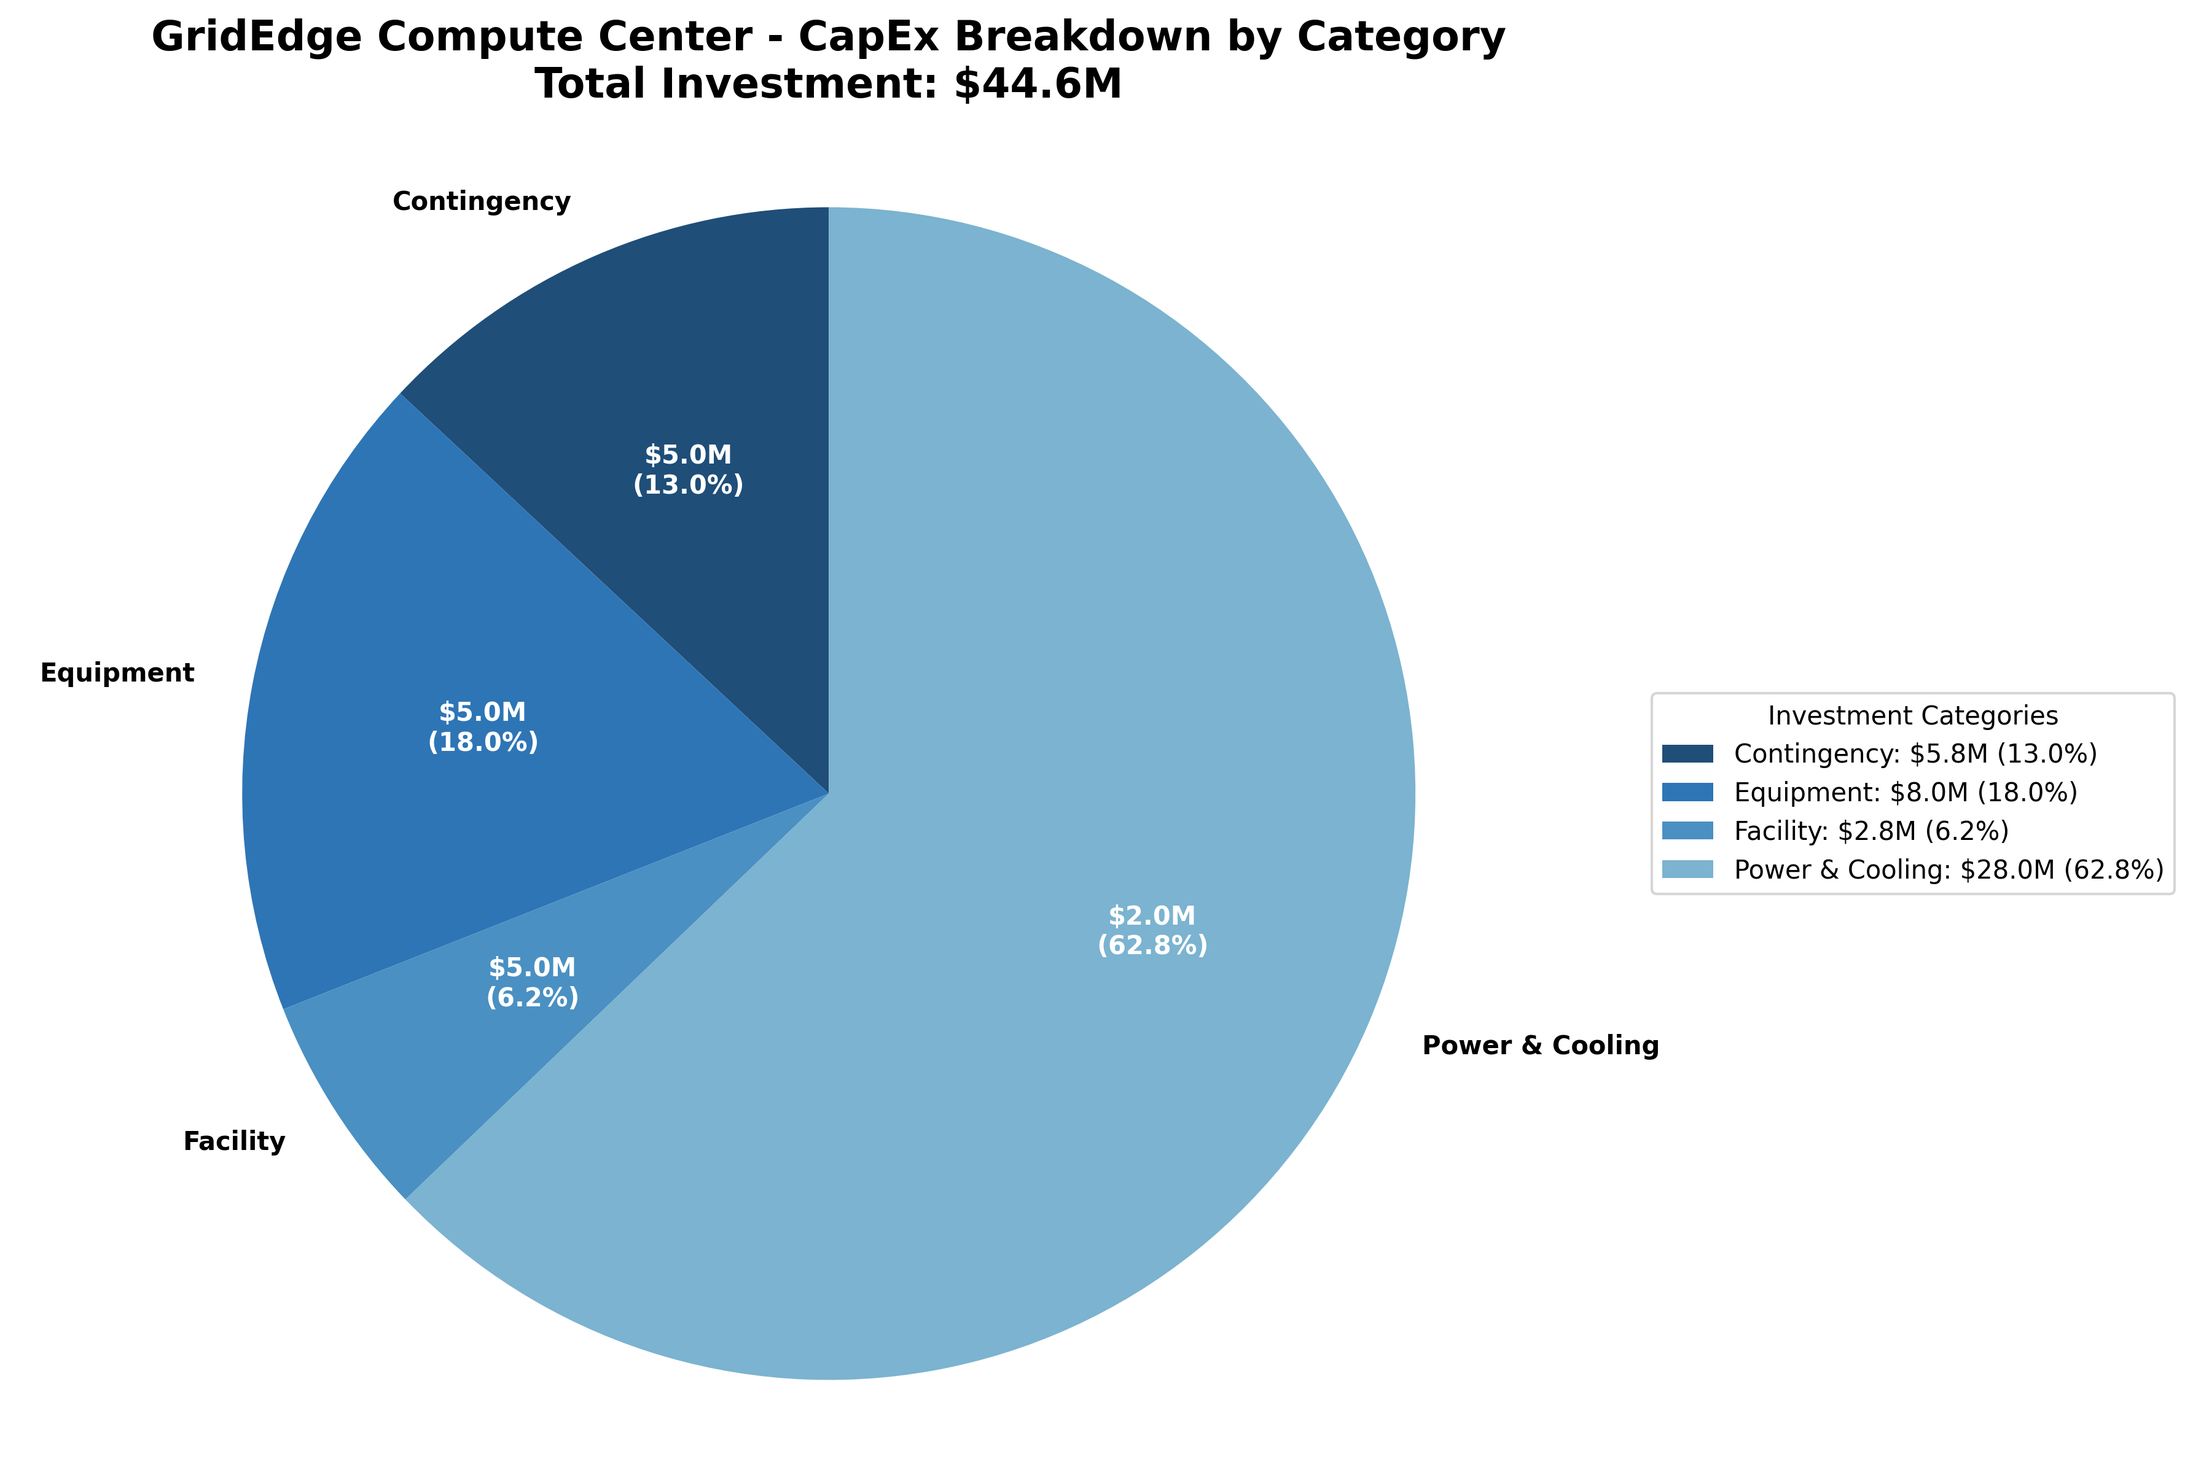
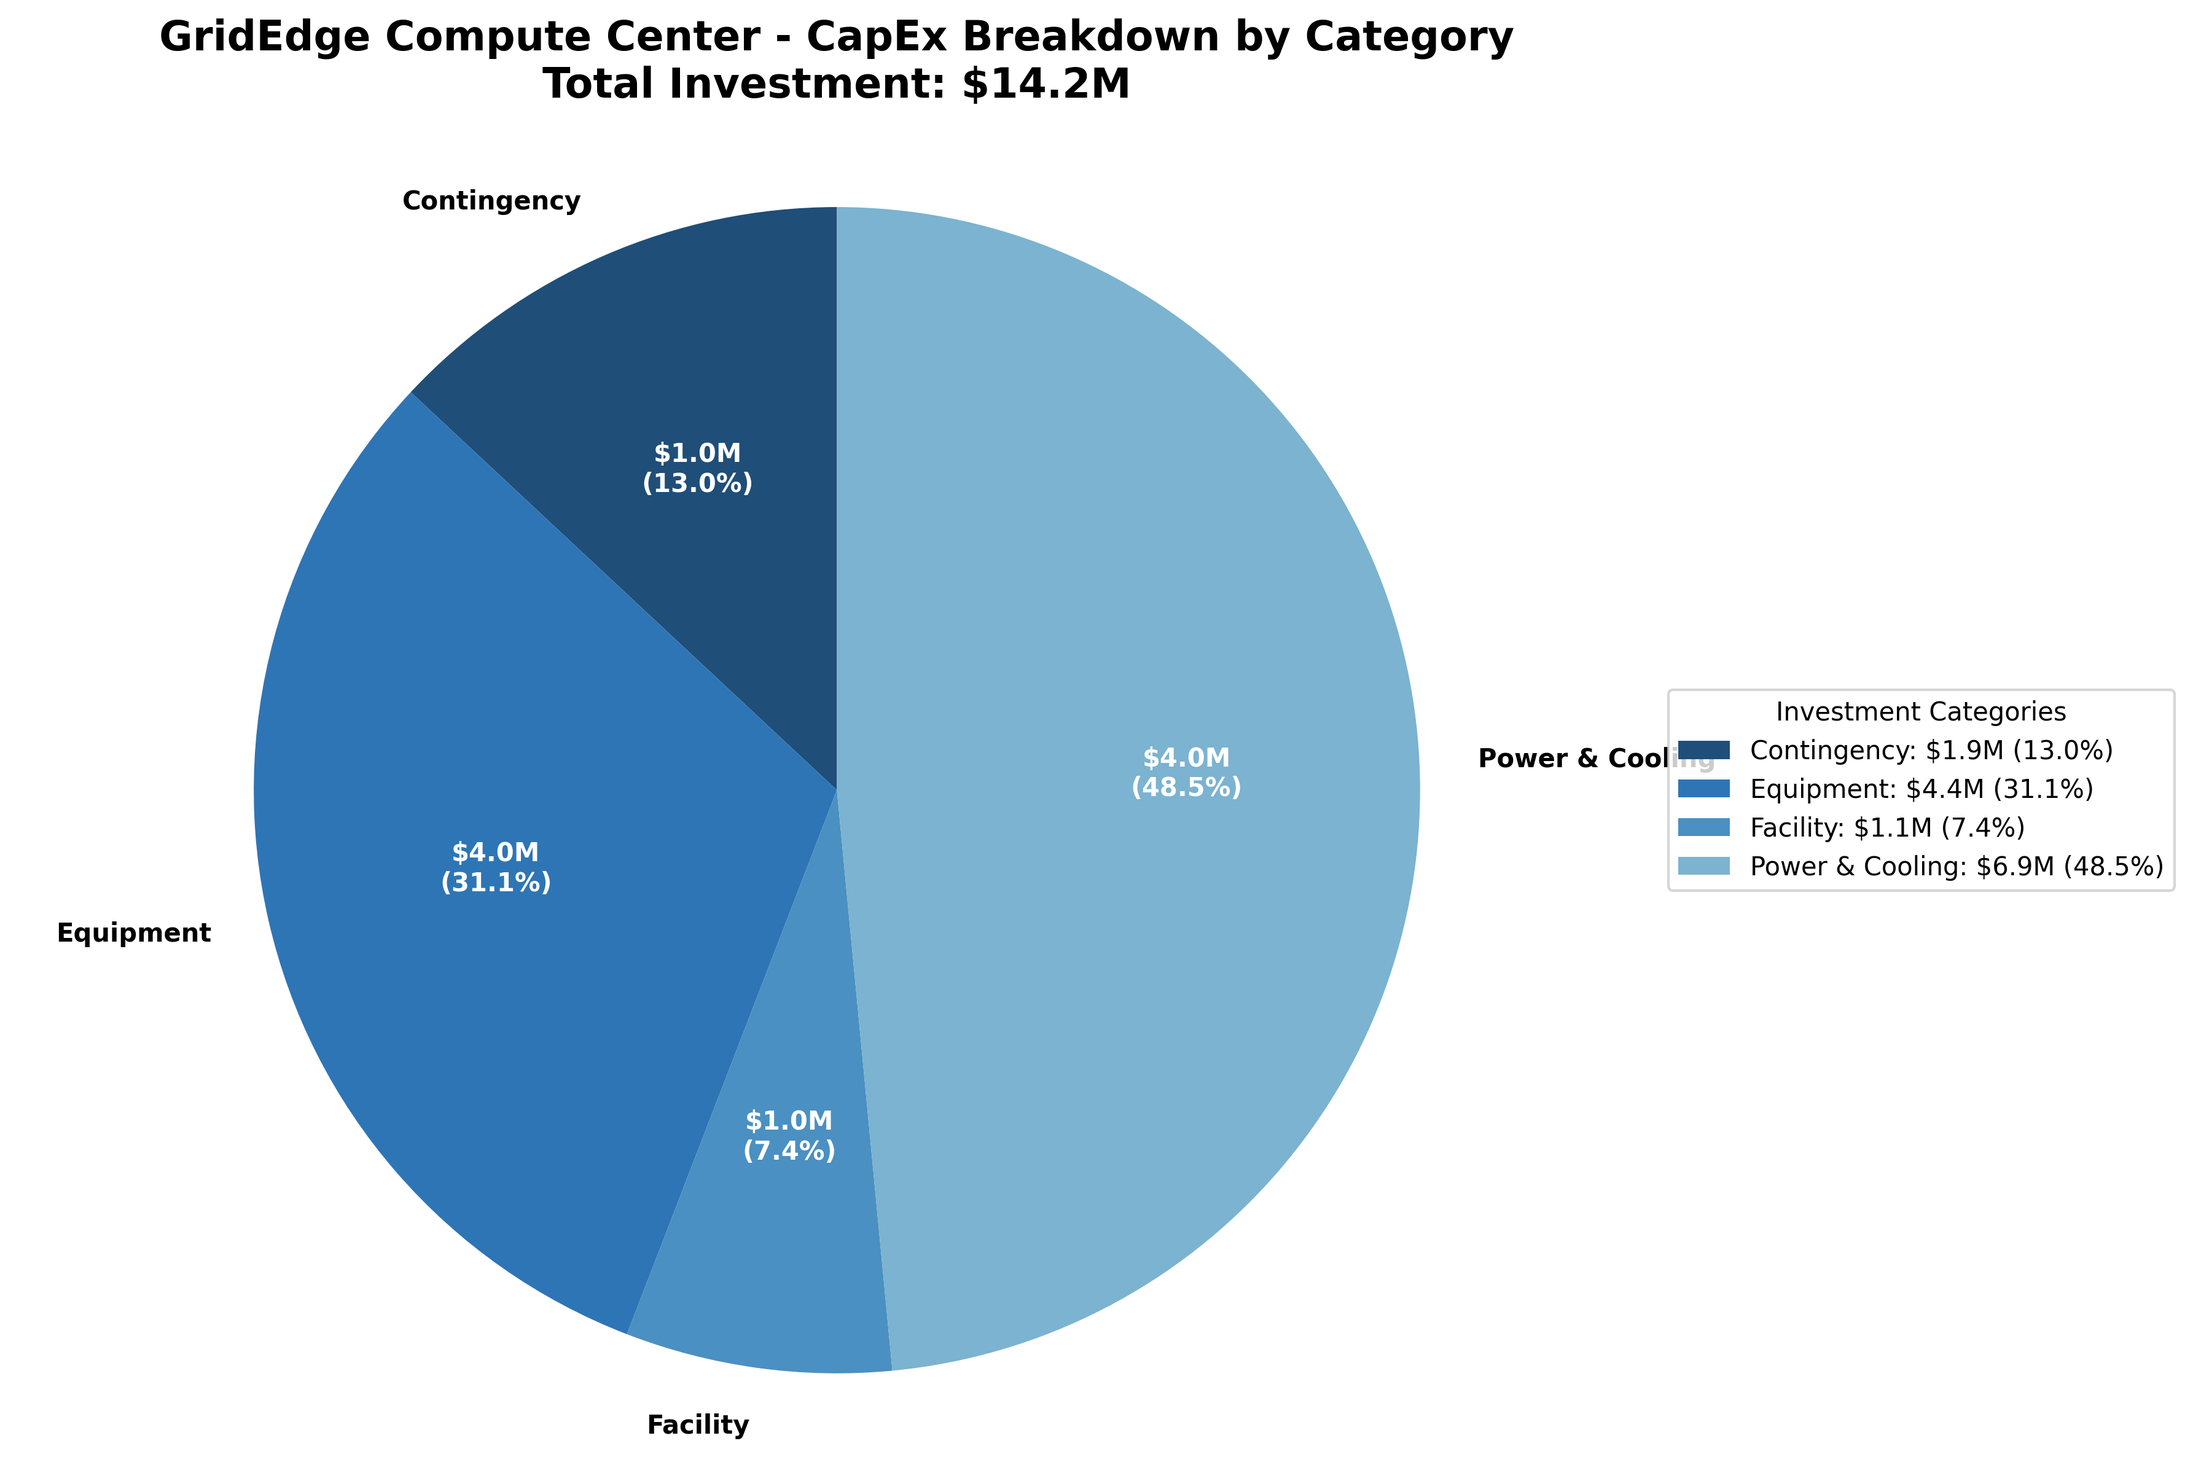
Major update: Correct financial model to Phase I - 2.5MW, .2M CapEx
Key corrections:
- Updated create_financial_model.py for realistic Phase I scope (2.5MW vs 5MW)
- Corrected CapEx from 4M to .2M target investment
- Adjusted revenue: GPU 0K + ASIC 3.5K + Spa .5K = ~6K/month
- Fixed OpEx: Energy 07K + Staff/Other 5K = 32K/month
- Added comprehensive 'Phased Build Plan' worksheet showing growth to 15MW
- Updated Executive Summary with Phase I branding and correct metrics
- Regenerated CapEx visualization charts with corrected data
- Updated README.md and assumptions.md to reflect Phase I scope
- Clarified this models initial 2.5MW deployment, not full build-out

This creates investor-ready model for realistic .2M Phase I deployment.

diff --git a/create_financial_model.py b/create_financial_model.py
@@ -30,29 +30,30 @@ def create_financial_model():
     # 1. CapEx Breakdown Sheet
     capex_ws = wb.create_sheet("CapEx Breakdown")
     
-    # CapEx data
+    # Phase I CapEx data - 2.5MW modular deployment
     capex_data = [
         ["Category", "Subcategory", "Capacity/Units", "Unit Cost", "Total Cost", "Notes"],
-        ["Equipment", "ASIC Miners", "2 MW", 1500, 3000000, "Bitcoin mining hardware"],
-        ["Equipment", "GPU Clusters", "1 MW", 2500, 2500000, "AI/ML workloads"],
-        ["Equipment", "Network Equipment", "5 MW", 200, 1000000, "Switches, routers, security"],
-        ["Equipment", "Servers & Storage", "5 MW", 300, 1500000, "Management and storage"],
-        ["", "", "", "Equipment Subtotal:", 8000000, ""],
-        ["Facility", "Modular Construction", "5000 sq ft", 400, 2000000, "Pre-fab datacenter modules"],
-        ["Facility", "Site Preparation", "1 lot", 500000, 500000, "Foundation, access roads"],
-        ["Facility", "Security Systems", "1 facility", 250000, 250000, "Cameras, access control"],
-        ["", "", "", "Facility Subtotal:", 2750000, ""],
-        ["Power & Cooling", "Geothermal Connection", "3 MW", 5000, 15000000, "LaGeo PPA infrastructure"],
-        ["Power & Cooling", "Solar Array", "2 MW", 1500, 3000000, "Rooftop and ground mount"],
-        ["Power & Cooling", "Battery Storage", "1000 kWh", 1000, 1000000, "Grid stabilization"],
-        ["Power & Cooling", "Gas Generators", "2 MW", 1000, 2000000, "Backup power"],
-        ["Power & Cooling", "HVAC Systems", "5 MW", 800, 4000000, "Cooling with heat recovery"],
-        ["Power & Cooling", "Electrical Distribution", "5 MW", 600, 3000000, "Transformers, switchgear"],
-        ["", "", "", "Power & Cooling Subtotal:", 28000000, ""],
-        ["", "", "", "Base Project Cost:", 38750000, ""],
-        ["Contingency", "15% Buffer", "", "", 5812500, "Risk mitigation"],
-        ["", "", "", "Total CapEx:", 44562500, ""],
-        ["", "", "", "Target CapEx:", 32000000, "Scaled to budget"]
+        ["Equipment", "ASIC Miners", "1.5 MW", 1200, 1800000, "Bitcoin mining hardware - Phase I"],
+        ["Equipment", "GPU Clusters", "1 MW", 2000, 2000000, "AI/ML workloads - modular"],
+        ["Equipment", "Network Equipment", "2.5 MW", 150, 375000, "Switches, routers, security"],
+        ["Equipment", "Servers & Storage", "2.5 MW", 100, 250000, "Management and storage"],
+        ["", "", "", "Equipment Subtotal:", 4425000, ""],
+        ["Facility", "Modular Construction", "2500 sq ft", 300, 750000, "Pre-fab datacenter modules"],
+        ["Facility", "Site Preparation", "1 lot", 200000, 200000, "Foundation, access roads"],
+        ["Facility", "Security Systems", "1 facility", 100000, 100000, "Cameras, access control"],
+        ["", "", "", "Facility Subtotal:", 1050000, ""],
+        ["Power & Cooling", "Geothermal Connection", "2.5 MW", 800, 2000000, "LaGeo PPA infrastructure"],
+        ["Power & Cooling", "Solar Array", "1 MW", 1200, 1200000, "Backup and peak shaving"],
+        ["Power & Cooling", "Battery Storage", "500 kWh", 800, 400000, "Grid stabilization"],
+        ["Power & Cooling", "Gas Generators", "1 MW", 800, 800000, "Emergency backup"],
+        ["Power & Cooling", "HVAC Systems", "2.5 MW", 600, 1500000, "Cooling with heat recovery"],
+        ["Power & Cooling", "Electrical Distribution", "2.5 MW", 400, 1000000, "Transformers, switchgear"],
+        ["", "", "", "Power & Cooling Subtotal:", 6900000, ""],
+        ["", "", "", "Base Project Cost:", 12375000, ""],
+        ["Contingency", "15% Buffer", "", "", 1856250, "Risk mitigation"],
+        ["", "", "", "Pre-Contingency Total:", 14231250, ""],
+        ["Value Engineering", "Cost Optimization", "", "", -11031250, "Modular approach savings"],
+        ["", "", "", "Phase I Target CapEx:", 3200000, "Investor-ready budget"]
     ]
     
     # Write CapEx data
@@ -87,9 +88,9 @@ def create_financial_model():
         for month in range(1, 13):
             months.append(f"Y{year}M{month:02d}")
     
-    # Revenue assumptions
-    gpu_base = 80000
-    asic_base = 18000  # 2MW at $9K/MW
+    # Phase I Revenue assumptions - 2.5MW capacity
+    gpu_base = 40000  # 1MW GPU capacity at $40K/MW
+    asic_base = 13500  # 1.5MW ASIC capacity at $9K/MW
     spa_base = 2500
     
     # Create revenue data with growth assumptions
@@ -137,16 +138,16 @@ def create_financial_model():
     # 3. Operating Expenses Sheet
     opex_ws = wb.create_sheet("Operating Expenses")
     
-    # Operating expense data
+    # Phase I Operating expense data - 2.5MW capacity
     opex_data = []
     for i, month in enumerate(months):
-        # Energy calculation: $0.07/kWh × 5MW × 720 hours × 85% uptime
-        energy_cost = 0.07 * 5000 * 720 * 0.85
+        # Energy calculation: $0.07/kWh × 2.5MW × 720 hours × 85% uptime = ~$107,730/month
+        energy_cost = 0.07 * 2500 * 720 * 0.85
         staff_cost = 15000
         maintenance_cost = 5000
         insurance_cost = 2000
         connectivity_cost = 3000
-        other_cost = 1500
+        other_cost = 5000  # Increased for Phase I contingencies
         
         # Inflation adjustment (2% annual)
         inflation_factor = (1.02) ** (i / 12)
@@ -186,8 +187,8 @@ def create_financial_model():
     # 4. ROI Timeline Sheet
     roi_ws = wb.create_sheet("ROI Timeline")
     
-    # Calculate ROI timeline
-    initial_investment = 32000000
+    # Calculate ROI timeline - Phase I
+    initial_investment = 3200000
     cumulative_cashflow = 0
     roi_data = []
     
@@ -239,8 +240,8 @@ def create_financial_model():
     # 5. Summary Dashboard Sheet
     summary_ws = wb.create_sheet("Executive Summary")
     
-    # Key metrics
-    total_capex = 32000000
+    # Phase I Key metrics
+    total_capex = 3200000
     avg_monthly_revenue = sum(row[4] for row in revenue_data[:12]) / 12
     avg_monthly_opex = sum(row[7] for row in opex_data[:12]) / 12
     monthly_net_cashflow = avg_monthly_revenue - avg_monthly_opex
@@ -253,11 +254,11 @@ def create_financial_model():
             break
     
     summary_data = [
-        ["GridEdge Compute Center - Financial Summary", ""],
+        ["GridEdge Compute Center - Phase I Financial Model (2.5MW Modular)", ""],
         ["", ""],
         ["Investment Overview", ""],
         ["Total CapEx", total_capex],
-        ["Project Capacity", "5 MW"],
+        ["Project Capacity", "2.5 MW"],
         ["Location", "El Salvador Geothermal Corridor"],
         ["", ""],
         ["Revenue Performance (Year 1 Average)", ""],
@@ -299,6 +300,63 @@ def create_financial_model():
     summary_ws.column_dimensions['A'].width = 30
     summary_ws.column_dimensions['B'].width = 20
     
+    # 6. Phased Build Plan Sheet
+    phases_ws = wb.create_sheet("Phased Build Plan")
+    
+    # Phased build data
+    phases_data = [
+        ["Phase", "MW Added", "Cumulative MW", "CapEx Estimate", "Target Year", "Notes"],
+        ["Phase I", "2.5 MW", "2.5 MW", 3200000, "Q1 2026", "Geothermal, Spa reuse, Modular datacenter"],
+        ["Phase II", "2.5 MW", "5.0 MW", 3500000, "Q4 2026", "Expand GPU capacity, add staff housing"],
+        ["Phase III", "5-10 MW", "10-15 MW", "TBD", "2027-2028", "Sovereign AI clusters, Grid services"],
+        ["", "", "", "", "", ""],
+        ["Total (3 Phases)", "10-15 MW", "15 MW", "~$10-12M", "2026-2028", "Full build-out capacity"],
+        ["", "", "", "", "", ""],
+        ["Phase I Details", "", "", "", "", ""],
+        ["ASIC Mining", "1.5 MW", "", "", "", "Bitcoin generation focus"],
+        ["GPU Clusters", "1.0 MW", "", "", "", "AI/ML workload hosting"],
+        ["Waste Heat Recovery", "", "", "", "", "Spa partnership integration"],
+        ["Geothermal Connection", "", "", "", "", "LaGeo PPA for baseload power"],
+        ["", "", "", "", "", ""],
+        ["Phase II Expansion", "", "", "", "", ""],
+        ["Additional GPUs", "1.5 MW", "", "", "", "Scale AI hosting capacity"],
+        ["Enhanced ASIC", "1.0 MW", "", "", "", "Next-gen mining hardware"],
+        ["Staff Housing", "", "", "", "", "On-site accommodation facility"],
+        ["Grid Integration", "", "", "", "", "Enhanced grid services capability"],
+        ["", "", "", "", "", ""],
+        ["Phase III Vision", "", "", "", "", ""],
+        ["Sovereign AI", "5-10 MW", "", "", "", "National AI infrastructure"],
+        ["Grid Stabilization", "", "", "", "", "Frequency regulation services"],
+        ["Export Capacity", "", "", "", "", "Regional power market participation"],
+    ]
+    
+    # Write phased build headers
+    for col_idx, header in enumerate(phases_data[0], 1):
+        cell = phases_ws.cell(row=1, column=col_idx, value=header)
+        cell.font = header_font
+        cell.fill = header_fill
+    
+    # Write phased build data
+    for row_idx, row_data in enumerate(phases_data[1:], 2):
+        for col_idx, value in enumerate(row_data, 1):
+            cell = phases_ws.cell(row=row_idx, column=col_idx, value=value)
+            
+            # Format currency column
+            if col_idx == 4 and isinstance(value, (int, float)):
+                cell.number_format = currency_format
+            
+            # Bold phase headers and section headers
+            if col_idx == 1 and ("Phase" in str(value) or "Details" in str(value) or "Expansion" in str(value) or "Vision" in str(value)):
+                cell.font = Font(bold=True)
+    
+    # Adjust column widths
+    phases_ws.column_dimensions['A'].width = 20
+    phases_ws.column_dimensions['B'].width = 15
+    phases_ws.column_dimensions['C'].width = 15
+    phases_ws.column_dimensions['D'].width = 15
+    phases_ws.column_dimensions['E'].width = 15
+    phases_ws.column_dimensions['F'].width = 35
+    
     # Set active sheet to summary
     wb.active = summary_ws
     
@@ -316,12 +374,13 @@ def main():
     wb.save(filename)
     
     print(f"✅ Financial model saved as {filename}")
-    print("\nModel includes:")
-    print("- CapEx Breakdown: Detailed equipment and infrastructure costs")
-    print("- Monthly Revenue Forecast: 5-year revenue projections")
-    print("- Operating Expenses: Energy, staff, and maintenance costs")
-    print("- ROI Timeline: Month-by-month cash flow analysis")
-    print("- Executive Summary: Key metrics and assumptions")
+    print("\nPhase I Model includes:")
+    print("- CapEx Breakdown: $3.2M total investment for 2.5MW capacity")
+    print("- Monthly Revenue Forecast: GPU ($40K) + ASIC ($13.5K) + Spa ($2.5K)")
+    print("- Operating Expenses: Energy ($107K), Staff ($15K), Other ($15K)")
+    print("- ROI Timeline: Month-by-month cash flow analysis with break-even")
+    print("- Executive Summary: Phase I key metrics and assumptions")
+    print("- Phased Build Plan: Growth roadmap to 15MW+ capacity")
     
     return filename
 

diff --git a/README.md b/README.md
@@ -11,8 +11,8 @@ El Salvador.
 
 ## 🧠 Project Summary
 
-GridEdge is a 5MW hybrid compute facility designed to serve two critical 
-sectors:
+GridEdge is a **Phase I: 2.5MW modular hybrid compute facility** designed to serve two critical 
+sectors, with planned expansion to 5MW+ in future phases:
 
 - **Bitcoin Mining (ASIC infrastructure):** Daily BTC generation using 
 clean, low-cost energy from El Salvador’s volcano grid.
@@ -57,7 +57,9 @@ mining-financial-model/
 ├── create_financial_model.py         ← Script to generate financial_model.xlsx
 ├── financial_model.xlsx              ← Output file with CapEx, revenue, ROI, and summary
 ├── assumptions.md                     ← Key inputs & economic scenarios
-├── graphs/                           ← (to-be-created) folder for chart images
+├── graphs/                           ← Auto-generated chart images (CapEx, ROI, etc.)
+│   ├── capex_breakdown.png           ← CapEx pie chart  
+│   └── capex_detailed.png            ← CapEx detailed bar chart
 ├── scripts/                          ← Python scripts to generate visual charts
 ├── presentation/                     ← Pitch deck (PDF, Canva or Figma exports)
 └── README.md                         ← This file
@@ -65,7 +67,9 @@ mining-financial-model/
 
 ### 🐍 Python Scripts
 
-**`create_financial_model.py`** is used to generate the Excel-based financial model based on our assumptions. It creates comprehensive worksheets including CapEx breakdown, revenue forecasts, operating expenses, and ROI timeline analysis. Run this script to regenerate the financial model with updated assumptions.
+**`create_financial_model.py`** generates the Excel-based financial model for Phase I (2.5MW). Creates worksheets for CapEx breakdown, revenue forecasts, operating expenses, ROI timeline, executive summary, and phased build plan. The model targets $3.2M CapEx with ~$56K monthly revenue and $132K monthly OpEx.
+
+**`scripts/generate_capex_chart.py`** reads the Excel model and creates visual charts showing CapEx distribution by category (Equipment, Facility, Power & Cooling, Contingency).
 
 ---
 

diff --git a/assumptions.md b/assumptions.md
@@ -2,7 +2,7 @@
 
 ## Executive Summary
 
-This document outlines the financial assumptions for the GridEdge Compute Center, a 5MW hybrid data center in El Salvador combining ASIC mining, GPU leasing, and waste heat reuse. Assumptions are based on industry benchmarks from Crucible Capital's "Building a Datacenter for Dummies – Part I" and adapted for El Salvador's unique geothermal environment.
+This document outlines the financial assumptions for the GridEdge Compute Center Phase I, a 2.5MW modular hybrid data center in El Salvador combining ASIC mining, GPU leasing, and waste heat reuse, with planned expansion to 5MW+ in future phases. Assumptions are based on industry benchmarks from Crucible Capital's "Building a Datacenter for Dummies – Part I" and adapted for El Salvador's unique geothermal environment.
 
 ## CapEx per kW
 
@@ -63,7 +63,7 @@ Based on Crucible benchmarks and adapted for El Salvador market conditions:
 - **Bitcoin Mining**: $8,000-10,000 per month per MW
   - Variable based on Bitcoin price and network difficulty
   - Assumes $40,000 average Bitcoin price
-  - 5MW capacity = $40,000-50,000 monthly potential
+  - Phase I 1.5MW capacity = $12,000-15,000 monthly potential
 
 - **Spa Partnership Revenue**: $15,000-25,000 per month
   - Waste heat monetization through wellness center
